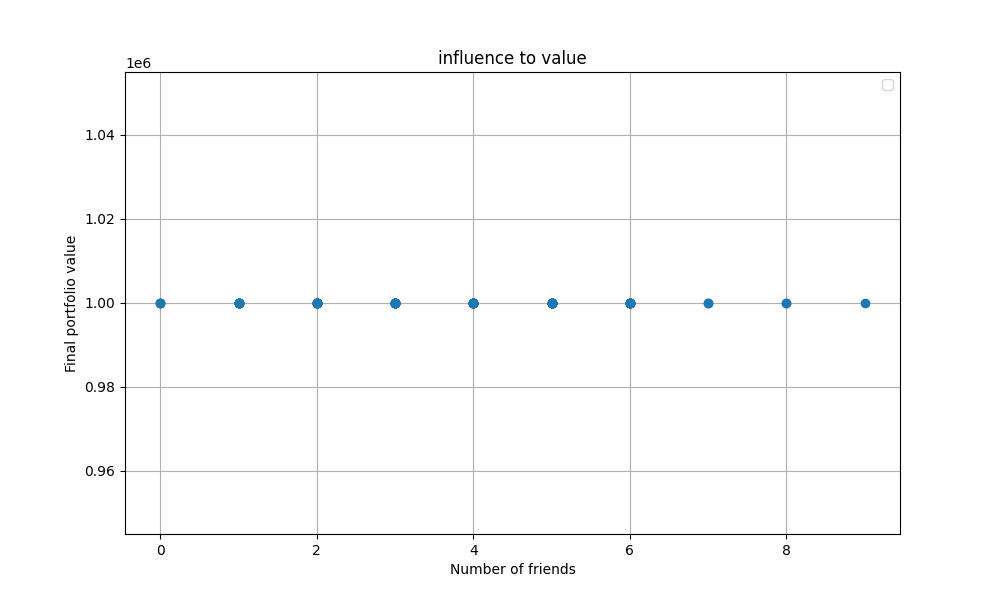
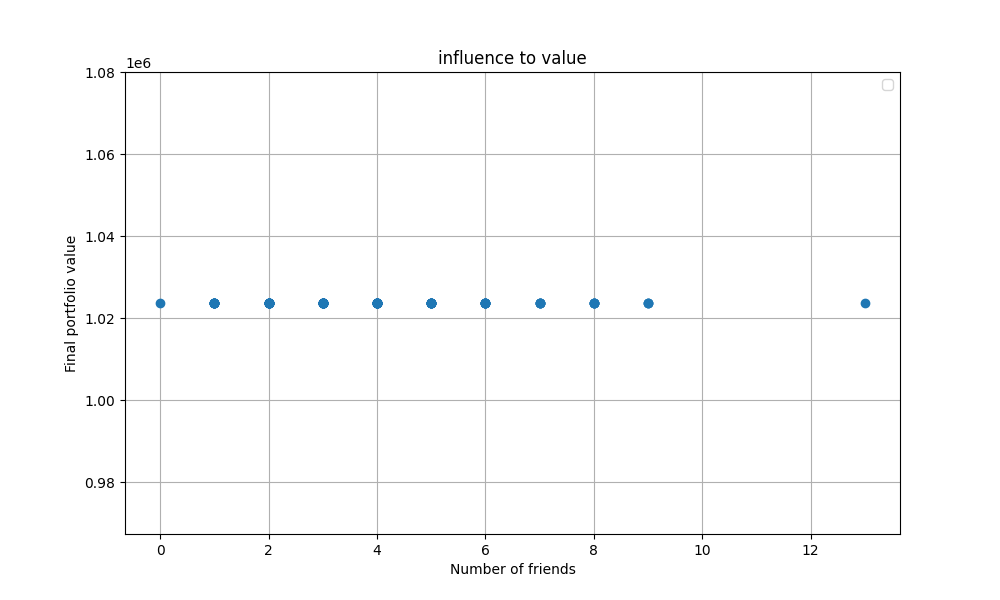
status 0410240255

diff --git a/Code/simulation.py b/Code/simulation.py
@@ -30,16 +30,16 @@ for idx, ticker in enumerate(valid_tickers):
         prices = ast.literal_eval(stock_df.at[ticker, 'time_series'])
     except ValueError:
         # print(ticker)
-        pass
+        continue
 
     forward_eps = stock_df['forwardEps'][ticker]
     earnings_growth = stock_df['earningsGrowth'][ticker]
     dividend_ratio = stock_df['dividendRate'][ticker]
 
     if isinstance(forward_eps, pd.Series):
-        forward_eps = forward_eps[0]
-        earnings_growth = earnings_growth[0]
-        dividend_ratio = dividend_ratio[0]
+        forward_eps = forward_eps.iloc[0]
+        earnings_growth = earnings_growth.iloc[0]
+        dividend_ratio = dividend_ratio.iloc[0]
 
     if math.isnan(dividend_ratio):
         dividend_ratio = 0
@@ -67,7 +67,7 @@ standard_influence = .2
 time_steps = 1000
 trials = 1
 start = "01/01/2003"
-end = "12/31/2010"
+end = "12/31/2003"
 
 # test over 1980 to 2000 and then 2003 to 2023
 
@@ -76,11 +76,12 @@ end = "12/31/2010"
 for trial in range(trials):
     # stats per trial
     broker_statuses = defaultdict(lambda: list())
+    broker_risks = defaultdict(lambda: list())
     dates = list()  # for labels
 
     # brokers will need to set these values based on if we're doing a influence shift or a risk variety
 
-    brokers = [Broker(i, 1_000_000, i/N*15, 15, 0, 0.05, True)
+    brokers = [Broker(i, 1_000_000, (i+1)/N*15, (i+1)/N*25, 0, 0.05, False)
                for i in range(N)]
 
     # Generate the number of friends and populate those friend relationships with a normal distribution
@@ -141,9 +142,9 @@ for trial in range(trials):
 
         for broker in brokers:
             broker_statuses[broker.id].append(broker.get_status(stocks, date.strftime("%m/%d/%Y")))
+            broker_risks[broker.id].append(broker.current_risk)
             if broker_statuses[broker.id][-1] < 0:
-                print(broker.money, broker.portfolio)
-            # print(broker.id, broker.get_status(stocks, date.strftime("%m/%d/%Y")))
+                print(broker.id, broker.get_status(stocks, date.strftime("%m/%d/%Y")), broker.money, broker.current_risk, broker.portfolio)
 
         date += delta
 
@@ -227,30 +228,26 @@ for trial in range(trials):
     # dates = ['1/1/2003', '5/1/2003', '9/1/2003', '1/1/2004']
     # plot some time series of brokers net worth
     for b in random.sample(brokers, 10):
-        plot_time(dates, broker_statuses[b.id], 'dates', f'wealth of broker {b.id}', f'broker wealth time series {b.id}', f'timeseries{b.id}.png')
+        plot_time(dates, broker_statuses[b.id], 'dates', f'portfolio and currency value of broker {b.id}', f'broker wealth time series {b.id}', f'timeseries{b.id}.png')
+        plot_time(dates, broker_risks[b.id], 'dates', f'risk of broker {b.id}', f'broker risk time series {b.id}', f'timeseries{b.id}.png')
+
 
     # plot portfolio risk to portfolio value
     final_portfolio_values = [broker_statuses[b.id][-1] for broker in brokers]
 
-    # bar plot
-    # Creating indices for each value
-    indices = range(len([math.floor(x) for x in final_portfolio_values]))
-
-    # Plotting the bar graph
+    # Plotting the histogram
     plt.figure(figsize=(8, 6))
-    plt.bar(indices, [math.floor(x) for x in final_portfolio_values], color='skyblue')
-
+    plt.hist([math.floor(x) for x in final_portfolio_values], bins=50, color='skyblue', alpha=.5, density=True)
     # Adding labels and title
     plt.xlabel('Index')
     plt.ylabel('Value')
     plt.title('Bar Plot of Values')
-
     # Display the plot
     plt.show()
 
 
     portfolio_risk = [broker.current_risk for broker in brokers]
-    plot(portfolio_risk, final_portfolio_values, 'Portfolio risk', 'Final portfolio value', 'Final Portofolio values', 'risktovalue.png')
+    plot(portfolio_risk, final_portfolio_values, 'Portfolio risk', 'Final portfolio value', 'Final Portfolio values', 'risktovalue.png')
 
     # plot influence in to portfolio value
     influences = [sum(broker_network.get_edge_data(n, me)['weight'] for (n, me) in broker_network.in_edges(broker.id)) for broker in brokers]

diff --git a/Code/broker.py b/Code/broker.py
@@ -25,9 +25,11 @@ class Broker:
         self.preferred_risk_maximum = risk_maximum
 
         # TODO: set up preferred risk minimum to a percentage to consider of the available stocks (considers x% highest risk stocks)
-        self.risk_percentile = math.exp(.05*self.preferred_risk_minimum) - 1
+        self.risk_percentile = math.exp(.035*self.preferred_risk_minimum) - 1
         if self.risk_percentile >= 1.0:
             self.risk_percentile = .99
+        print(self.preferred_risk_minimum, self.preferred_risk_maximum, self.risk_percentile)
+
 
         self.current_risk = 0
         # self.current_status = 0
